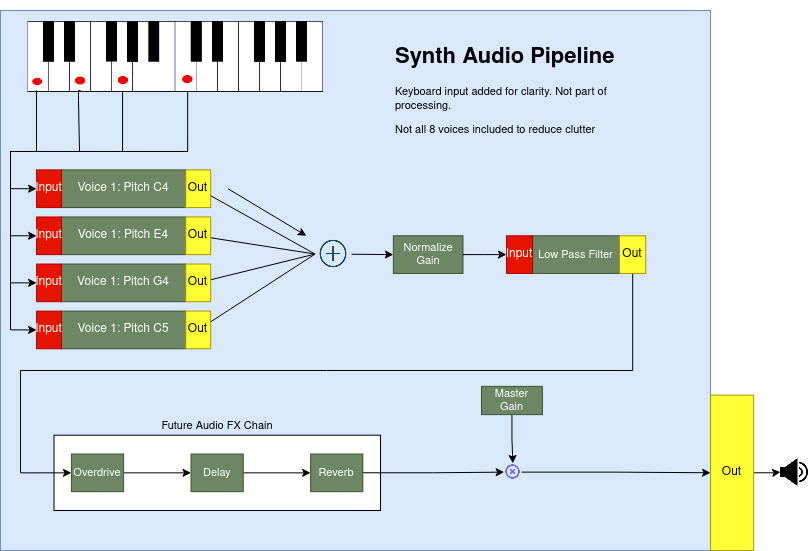
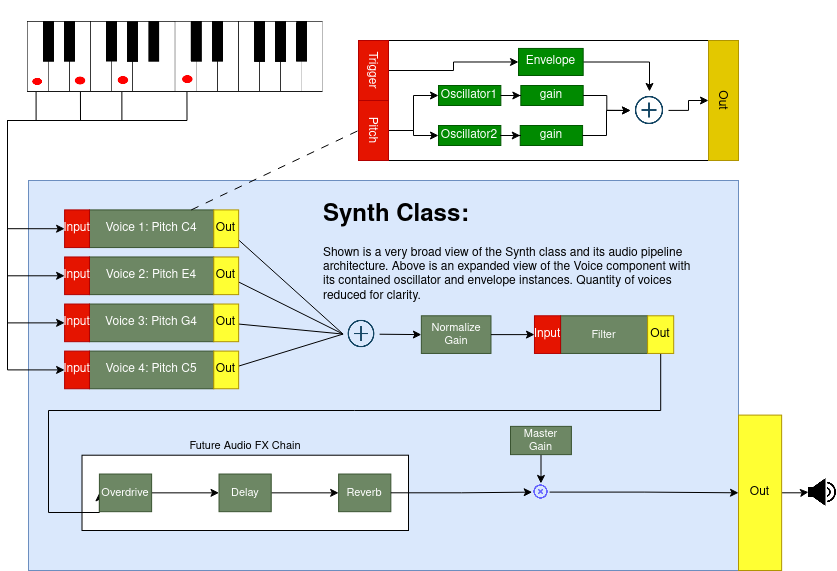
Added in high level diagram

diff --git a/docs/graduate_paper/LaTeX/GraduatePaper-BenStoneking.tex b/docs/graduate_paper/LaTeX/GraduatePaper-BenStoneking.tex
@@ -193,6 +193,8 @@
 	\subsubsection{Design decisions}
 	\paragraph{The final architecture of the system is a hybrid of several architectural patterns}. The system is a \textbf{pipeline architecture}. Synth modules are chained together in a mostly linear fashion. Oscillators generate audio sample data. Samples from multiple oscillators are attenuated and combined into a new sample. The aggregated sample is passed through an envelope modulated attenuator. The sample is then passed to a filter. The filtered samples are passed through an audio fx chain where each effect module processes and passes data down to the next. The samples processed by the fx chain are passed through a master volume attenuator and put into the audio DAC's output buffer. The DAC finally converts the digital signal to an analog signal which plays out the physical speakers.
 	
+	\includegraphics[width=\linewidth]{Synth_Audio_Pipeline}
+	
 	On one hand, it is an \textbf{event driven architecture}. The audio DAC interrupt drives the audio processing of the synthesizer pipepline. It is responsible for acquiring a sample from the synth and placing it into the DAC's output buffer (note how the DAC functions both as an event driver and as a component in the pipeline). The hardware timer interrupt processes user input. It uses the processed user input to control the various synth components. Because it runs much slower than the DAC, it also drives some synthesizer components like the envelope which generate modulation source signals rather than audio.
 	
 	At the same time, the system is also \textbf{modular}. Although modularity is a basic expectation of software design, it plays a much bigger role in synthesis itself. It has been a fundamental principle in synthesis since day one. The first synthesizers were a collection of analog circuit boards completely divorced from one another, and they were only connected by series of physical patch cables that could be endlessly rerouted in different permutations. This core principle is implemented into the software. The data structures are independent modules: oscillators, filters, envelopes and LFOs all able to connect to each other similar to how analog synthesizers are connected by patch cables. Some modules are abstract components, aggregating smaller modules to achieve new functionality. Some modules like the envelope do not directly process audio. Instead, they generate signals parallel to the audio pipeline that affect how \textit{other} modules process data.
